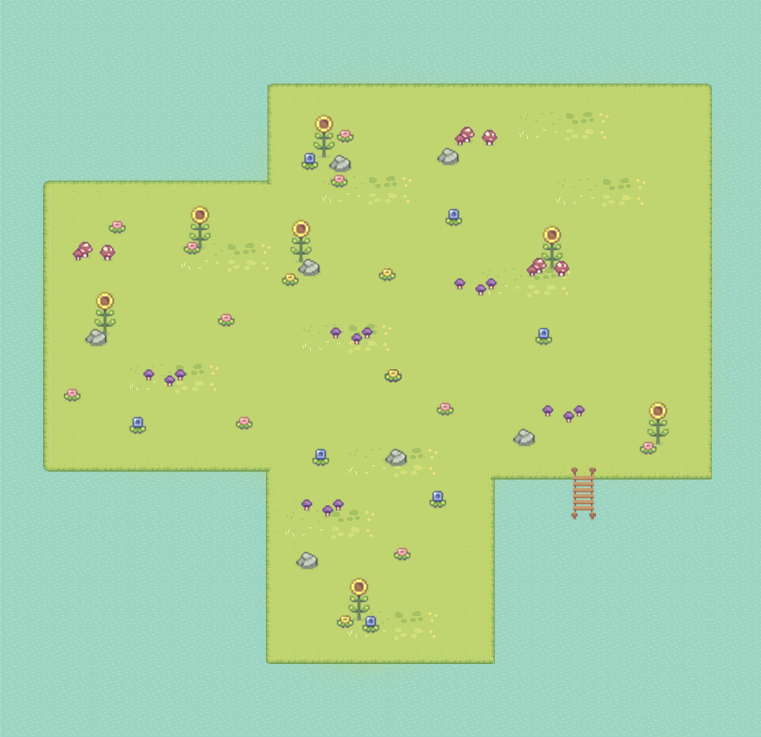
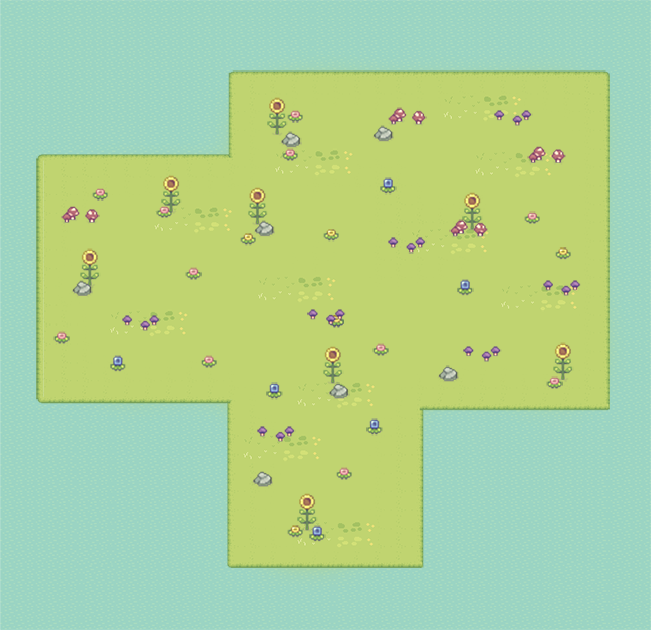
Added the map bounderies

diff --git a/js/player.js b/js/player.js
@@ -28,25 +28,51 @@ class Player {
     }
     
     updatePosition() {
-        this.left += this.directionX
-        /*if (this.left < 50) {
-            this.left = 50
-        } else if (this.left > this.gameScreen.clientWidth - 50 - this.width) {
-            this.left = this.gameScreen.clientWidth - 50 - this.width
-        } else {
-            
+       /* if(this.left < 230 ){
+            this.left = 230;
+        }else if ( this.left > this.gameScreen.clientWidth-50-35){
+            this.left = this.gameScreen.clientWidth-50-35
+        } else{
+            this.left += this.directionX
+        }
+        
+        if(this.top < 60) {
+            this.top = 60;
+        } else if (this.top > this.gameScreen.clientHeight-60){
+            this.top = this.gameScreen.clientHeight-60
+        }
+         else {
+            this.top += this.directionY
         }*/
-        this.top += this.directionY
-        /*if (this.top < 20) {
-            this.top = 20
-        } else if (this.top > this.gameScreen.clientHeight - 20 - this.height) {
-            this.top = this.gameScreen.clientHeight - 20 - this.height
-        } else {
+        
+        if (this.left < 25 && this.top > 120 && this.top < this.gameScreen.clientHeight-60-210){
+            this.left = 25;
+        } else if (this.top < 130 && /*this.left > 10 &&*/ this.left < 220){
+            this.top = 130;
+        } else if(this.left < 230 && /*this.top > 40 &&*/ this.top < 130){
+            this.left = 230;
+        } else if (this.top < 40 && /*this.left > 220 &&*/ this.left < this.gameScreen.clientWidth-50-35){
+            this.top = 40;
+        } else if (this.left > this.gameScreen.clientWidth-50-35 && this.top < this.gameScreen.clientHeight-60-200){
+            this.left = this.gameScreen.clientWidth-50-35;
+        }else if (this.top > this.gameScreen.clientHeight-60-210 && this.left > this.gameScreen.clientWidth-50-200 ){
+            this.top = this.gameScreen.clientHeight-60-210;
+        } else if (this.left > this.gameScreen.clientWidth-50-210 && this.top > this.gameScreen.clientHeight-60-210){
+            this.left = this.gameScreen.clientWidth-50-210;
+        } else if (this.top > this.gameScreen.clientHeight-60-50 && this.left > 205){
+            this.top = this.gameScreen.clientHeight-60-50;
+        } else if (this.left < 215 && this.top > this.gameScreen.clientHeight-60-210){
+            this.left = 215;
+        } else if (this.top > this.gameScreen.clientHeight-60-220 && this.left < 210 ){
+            this.top = this.gameScreen.clientHeight-60-220
+        }
+        else{
+            this.left += this.directionX
+            this.top += this.directionY
+            }
+        
             
-        }*/
-    }
 
 
-
-
+        }
 }

diff --git a/js/game.js b/js/game.js
@@ -3,31 +3,32 @@ class Game {
         this.startscreen = document.getElementById('game-intro')
         this.gameScreen = document.getElementById('game-screen')
         this.gameEndScreen = document.getElementById('game-end')
-        this.height = 88;
-        this.width = 45;
-        this.player = new Player(this.gameScreen,200,300,60,50)
+        this.height = 630;
+        this.width = 651;
+        this.player = new Player(this.gameScreen, 200, 200, 60, 50)
 
     }
 
     start() {
         this.startscreen.style.display = 'none';
-        this.gameScreen.style.display ='block';
-        
-        this.gameScreen.style.height = `${this.height}vh`
-        this.gameScreen.style.width = `${this.width}vw`
+        this.gameScreen.style.display = 'block';
+
+        this.gameScreen.style.height = `${this.height}px`
+        this.gameScreen.style.width = `${this.width}px`
 
         this.gameLoop()
-        
+
+
     }
 
     gameLoop() {
         this.update()
-        requestAnimationFrame( () => this.gameLoop())
+        requestAnimationFrame(() => this.gameLoop())
     }
 
     update() {
         this.player.move()
-      }
+    }
 
 
 

diff --git a/index.html b/index.html
@@ -13,7 +13,7 @@
     <main>
         <div id="game-intro">
             <img src="./img/BunnyHarvest_logo.png" alt="Bunny Harvest Logo" class="logo-img" />
-            <br/>
+            <br />
             <button id="start-button">Start Game!</button>
             <p>Use your keyboard to control your Bunny!</p>
             <img src="./img/keyboard.png" alt="WASD commands" class="keyboard-img" />
@@ -24,7 +24,7 @@
                 <p>Apples picked: <span id="score">0</span></p>
             </div>
         </div>
-        
+
 
         <div id="game-end">
 
@@ -32,10 +32,10 @@
         </div>
     </main>
 
-
-<script type="text/javascript" src="js/player.js"></script>
-<script type="text/javascript" src="js/game.js"></script>
-<script type="text/javascript" src="js/script.js"></script>
+    <!--<script type="text/javascript" src="js/boundaries.js"></script>-->
+    <script type="text/javascript" src="js/player.js"></script>
+    <script type="text/javascript" src="js/game.js"></script>
+    <script type="text/javascript" src="js/script.js"></script>
 </body>
 
 </html>

diff --git a/js/script.js b/js/script.js
@@ -7,6 +7,7 @@ window.addEventListener('load', () => {
         console.log('start game')
         game = new Game();
         game.start()
+
     }
 
     startButton.addEventListener('click', function () {
@@ -17,7 +18,7 @@ window.addEventListener('load', () => {
 
 
     document.addEventListener('keydown', event => {
-        console.log('down', event)
+        //console.log('down', event)
         if (event.code === 'KeyA') {
             game.player.directionX = -1
           } else if (event.code === 'KeyD') {
@@ -31,7 +32,7 @@ window.addEventListener('load', () => {
     })
 
     document.addEventListener('keyup', event => {
-        console.log('up', event)
+        //console.log('up', event)
         if (
           event.code === 'KeyA' ||
           event.code === 'KeyD' 
@@ -46,9 +47,5 @@ window.addEventListener('load', () => {
 
 
 
-
-
-
-
-
 })
+

diff --git a/styles/style.css b/styles/style.css
@@ -54,15 +54,14 @@ background: linear-gradient(
 
 #game-container {
     display: flex;
-    width: 100vw;   
-    padding: 20px 0px;
+    width: 100%;   
+    padding-top: 40px;
     justify-content: center;
 }
 
 #game-screen {
     display:none;
-    align-content: center;
-    padding: 20px 0;
+    align-content: center;a
     overflow: hidden;
     position: relative;
     background-image: url(../img/background.png);
@@ -70,5 +69,5 @@ background: linear-gradient(
     width: 45vw;*/
     background-repeat: no-repeat;
     background-size: cover;
-    
+        
 }

diff --git a/js/boundaries.js b/js/boundaries.js
@@ -1,0 +1,13 @@
+class Boundary {
+    constructor({position}) {
+        this.position = position
+        this.width = 50
+        this.height = 50
+    }
+
+    draw() {
+        c.fillStyle = 'red'
+        c.fillRect(this.position.x, this.position.y, this.width, this.height)
+    }
+}
+
